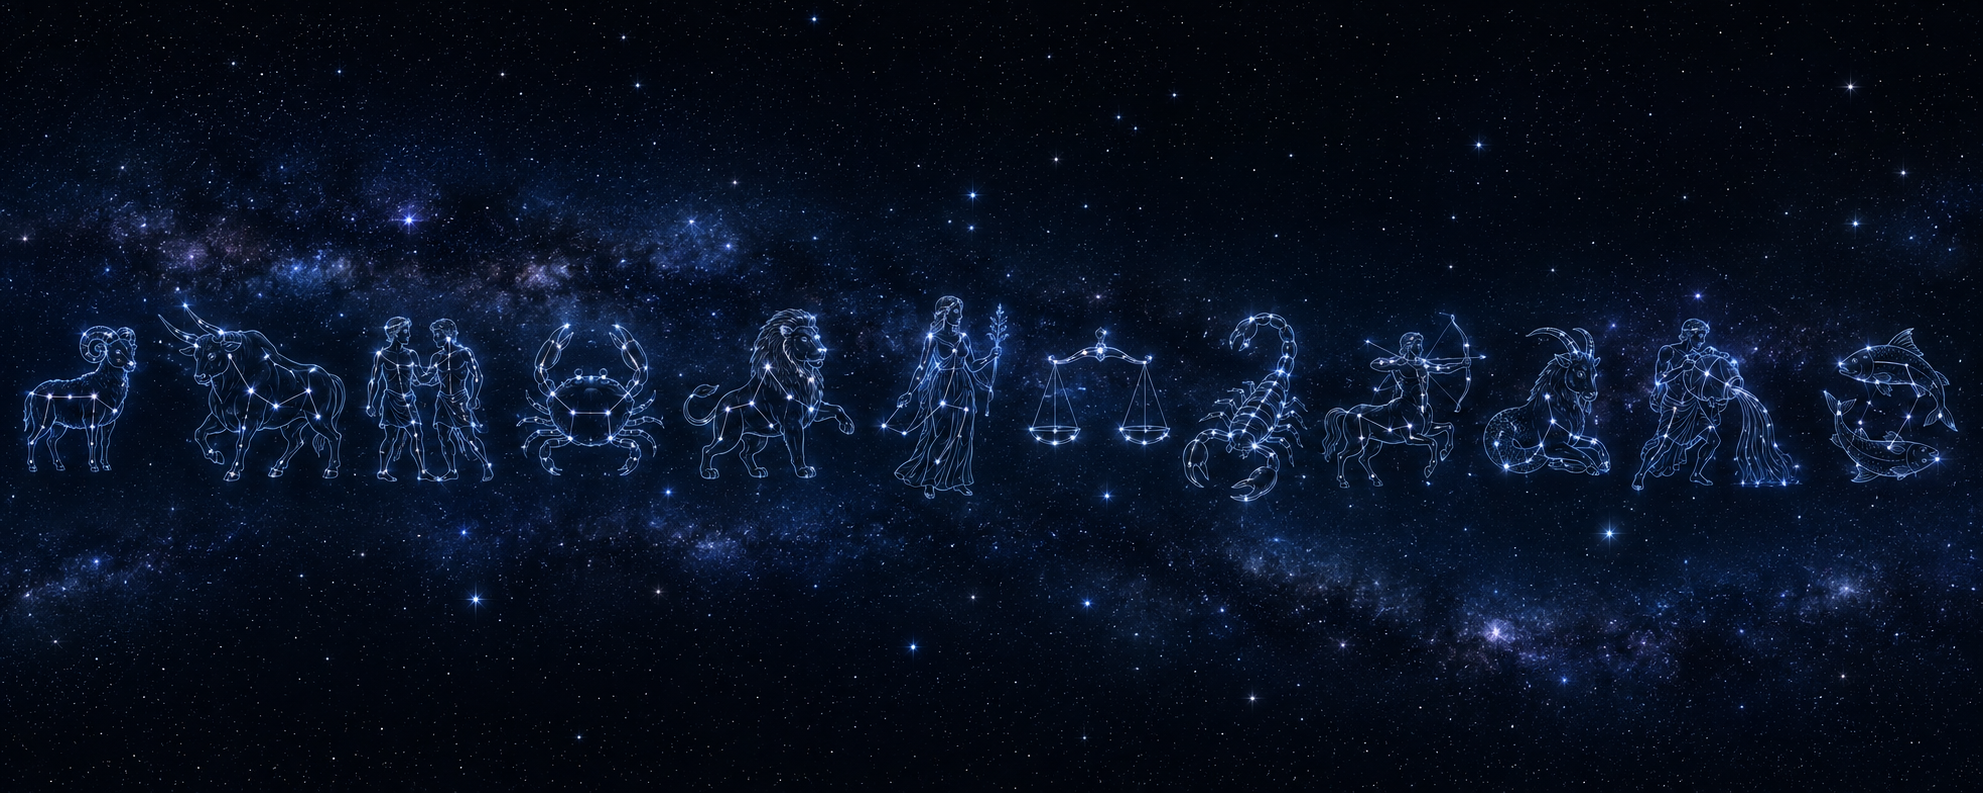
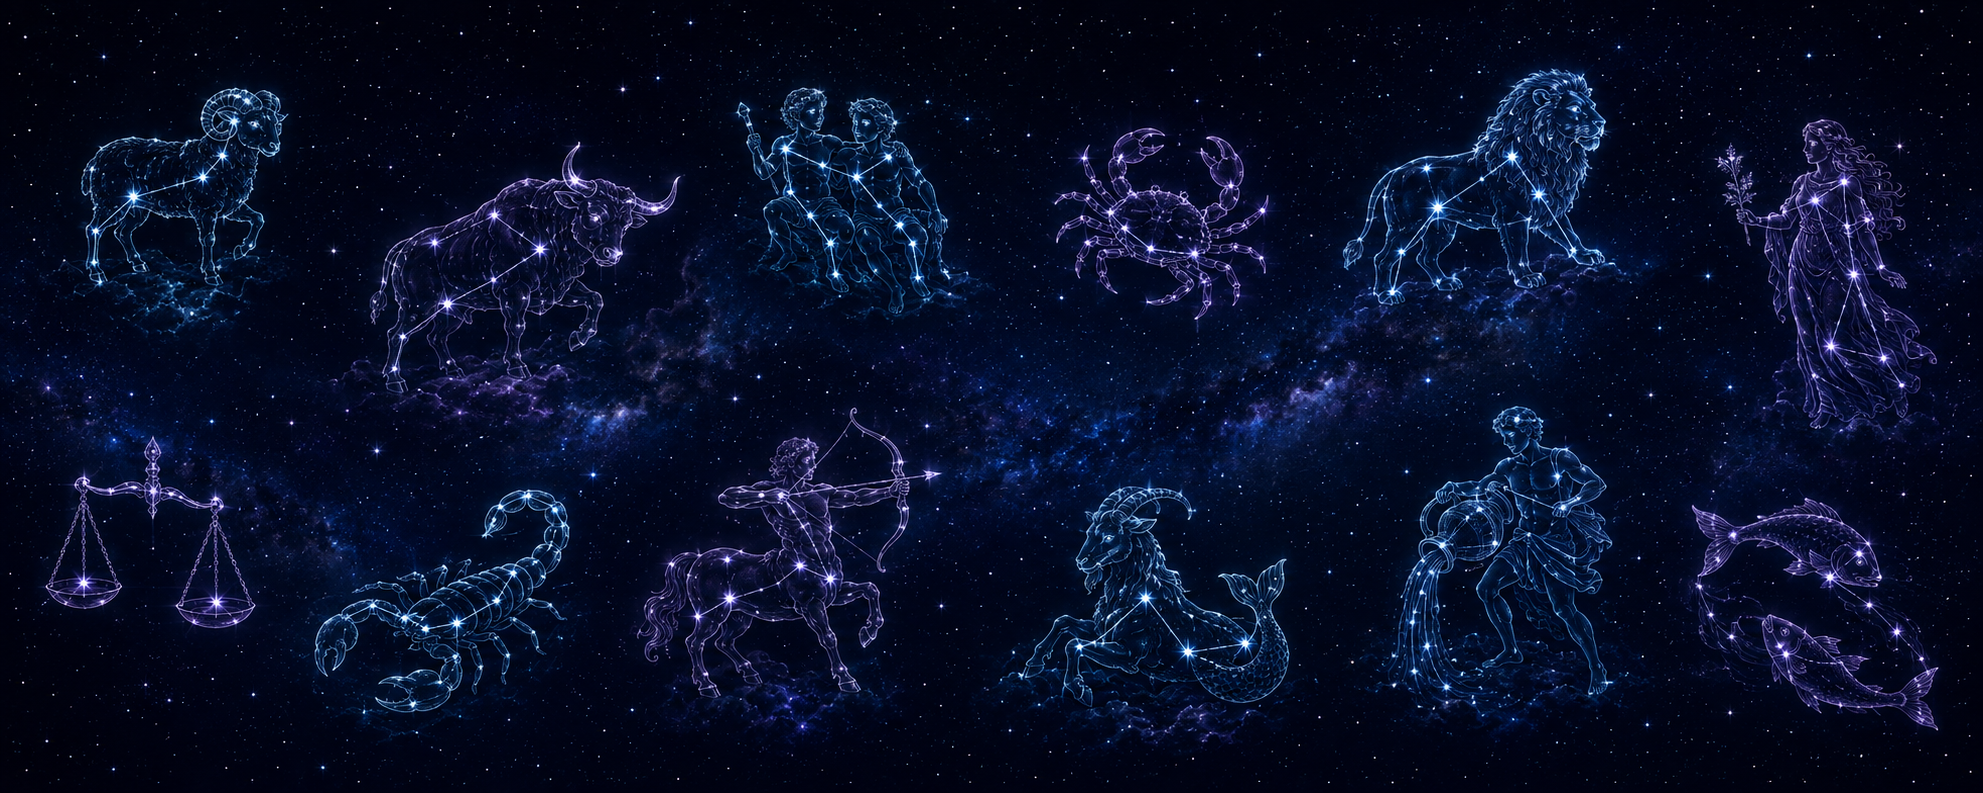
docs: make zodiac panorama follow seasonal sky

Changed region(s): [[0.0, 0.0605, 1.0, 0.9382], [0.9844, 0.3026, 1.0, 0.3329], [0.3076, 0.0908, 0.3384, 0.1211]]

diff --git a/docs/website/src/css/custom.css b/docs/website/src/css/custom.css
@@ -1,11 +1,11 @@
-:root { --scroll-progress: 0; --scroll-y: 0px; --ifm-color-primary: #67e8f9; --ifm-color-primary-dark: #22d3ee; --ifm-color-primary-light: #a5f3fc; --ifm-code-font-size: 90%; --ifm-font-family-base: Inter, ui-sans-serif, system-ui, -apple-system, BlinkMacSystemFont, "Segoe UI", sans-serif; --ifm-heading-font-family: var(--ifm-font-family-base); --ifm-line-height-base: 1.7; --ifm-background-color: #070b1e; --ifm-background-surface-color: #101a3a; --ifm-font-color-base: #e7edff; --ifm-heading-color: #ffffff; }
+:root { --scroll-progress: 0; --scroll-y: 0px; --zodiac-index: 0; --ifm-color-primary: #67e8f9; --ifm-color-primary-dark: #22d3ee; --ifm-color-primary-light: #a5f3fc; --ifm-code-font-size: 90%; --ifm-font-family-base: Inter, ui-sans-serif, system-ui, -apple-system, BlinkMacSystemFont, "Segoe UI", sans-serif; --ifm-heading-font-family: var(--ifm-font-family-base); --ifm-line-height-base: 1.7; --ifm-background-color: #070b1e; --ifm-background-surface-color: #101a3a; --ifm-font-color-base: #e7edff; --ifm-heading-color: #ffffff; }
 body { min-height: 100vh; color: #e7edff; background: #050b22; overflow-x: hidden; }
 #__docusaurus { position: relative; isolation: isolate; }
-.site-sky-loop { position: fixed; z-index: -1; inset: 0; display: flex; width: max-content; height: 100vh; overflow: hidden; background: #050b22; animation: sky-pan 420s linear infinite; }
+.site-sky-loop { position: fixed; z-index: -1; top: -75vh; left: 0; right: auto; bottom: auto; display: flex; width: max-content; height: 250vh; overflow: hidden; background: #050b22; transform: translateX(calc(46% - var(--zodiac-index) * 8.3333%)); transition: transform 18s cubic-bezier(.2,.7,.2,1); }
 .site-sky-loop::after { content: ''; position: fixed; z-index: 1; inset: 0; pointer-events: none; background: linear-gradient(90deg, rgb(5 11 34 / 58%), rgb(5 11 34 / 18%) 70%), linear-gradient(180deg, rgb(5 11 34 / 18%), rgb(5 11 34 / 72%)); }
-.site-sky-loop img { display: block; flex: 0 0 auto; width: auto; height: 100vh; max-width: none; object-fit: cover; }
-@keyframes sky-pan { from { transform: translateX(0); } to { transform: translateX(-50%); } }
-@media (prefers-reduced-motion: reduce) { .site-sky-loop { animation: none; transform: translateX(0); } }
+.site-sky-loop img { display: block; flex: 0 0 auto; width: auto; height: 250vh; max-width: none; object-fit: cover; }
+@media (max-width: 996px) { .site-sky-loop { top: -62vh; height: 220vh; } .site-sky-loop img { height: 220vh; } }
+@media (prefers-reduced-motion: reduce) { .site-sky-loop { transition: none; } }
 .main-wrapper { background: transparent; }
 .theme-doc-markdown { color: #e7edff; }
 .theme-doc-markdown a, .footer__link-item { color: #8ff7e8; }

diff --git a/docs/website/src/theme/Root.js b/docs/website/src/theme/Root.js
@@ -6,6 +6,24 @@ export default function Root({children}) {
 
   useEffect(() => {
     let frame = 0;
+    let zodiacTimer;
+    const northernHemisphereSigns = [
+      'capricorn', 'aquarius', 'pisces', 'aries', 'taurus', 'gemini',
+      'cancer', 'leo', 'virgo', 'libra', 'scorpio', 'sagittarius',
+    ];
+    const updateZodiac = () => {
+      const now = new Date();
+      const month = now.getMonth();
+      const nextMonth = new Date(now.getFullYear(), month + 1, 1);
+      const monthStart = new Date(now.getFullYear(), month, 1);
+      const monthProgress = (now - monthStart) / (nextMonth - monthStart);
+      const signIndex = (month + 9) % 12;
+      document.documentElement.style.setProperty(
+        '--zodiac-index',
+        (signIndex + monthProgress).toFixed(3),
+      );
+      document.documentElement.dataset.zodiacSign = northernHemisphereSigns[signIndex];
+    };
     const updateScrollProgress = () => {
       frame = 0;
       const maxScroll = Math.max(1, document.documentElement.scrollHeight - window.innerHeight);
@@ -17,12 +35,15 @@ export default function Root({children}) {
       if (!frame) frame = window.requestAnimationFrame(updateScrollProgress);
     };
     updateScrollProgress();
+    updateZodiac();
+    zodiacTimer = window.setInterval(updateZodiac, 60 * 60 * 1000);
     window.addEventListener('scroll', onScroll, {passive: true});
     window.addEventListener('resize', onScroll, {passive: true});
     return () => {
       window.removeEventListener('scroll', onScroll);
       window.removeEventListener('resize', onScroll);
       if (frame) window.cancelAnimationFrame(frame);
+      if (zodiacTimer) window.clearInterval(zodiacTimer);
     };
   }, []);
 
